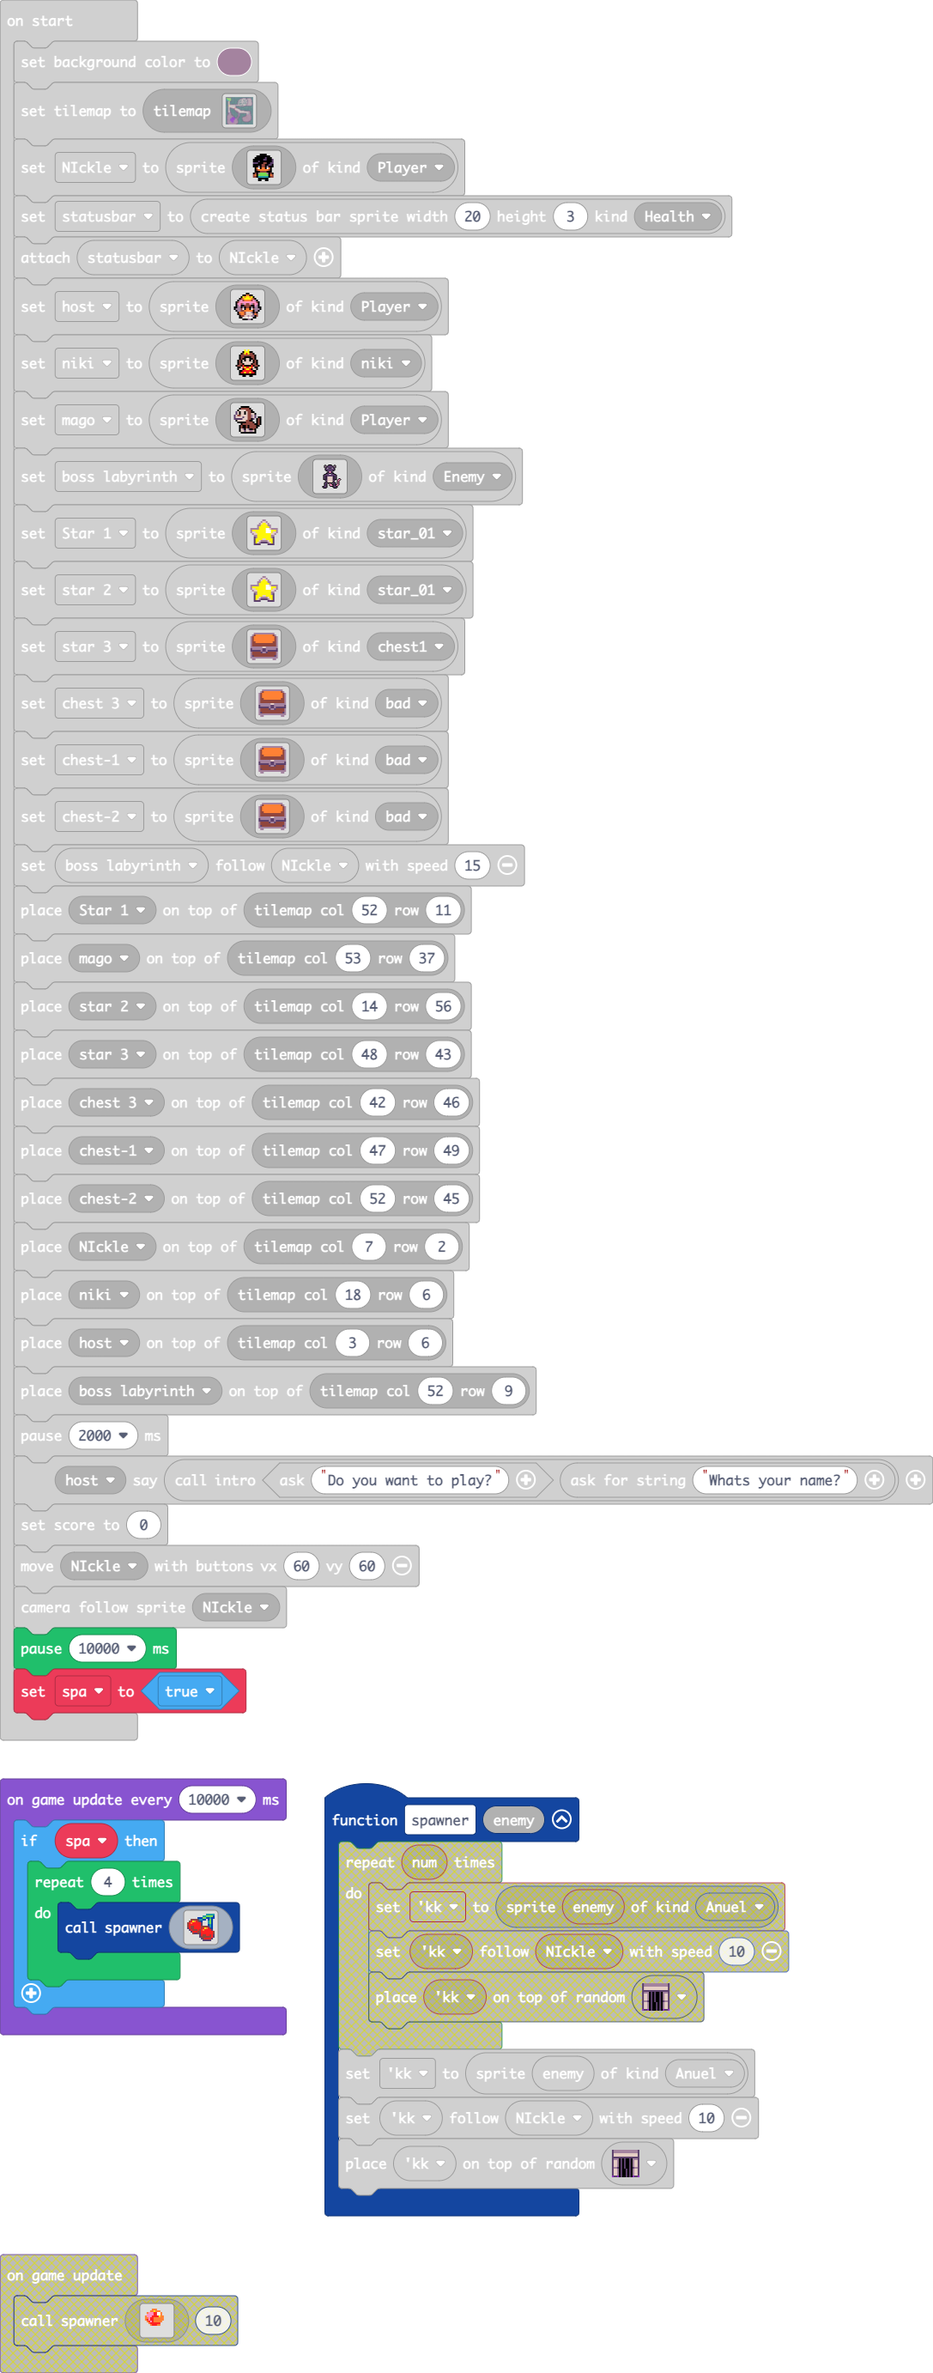
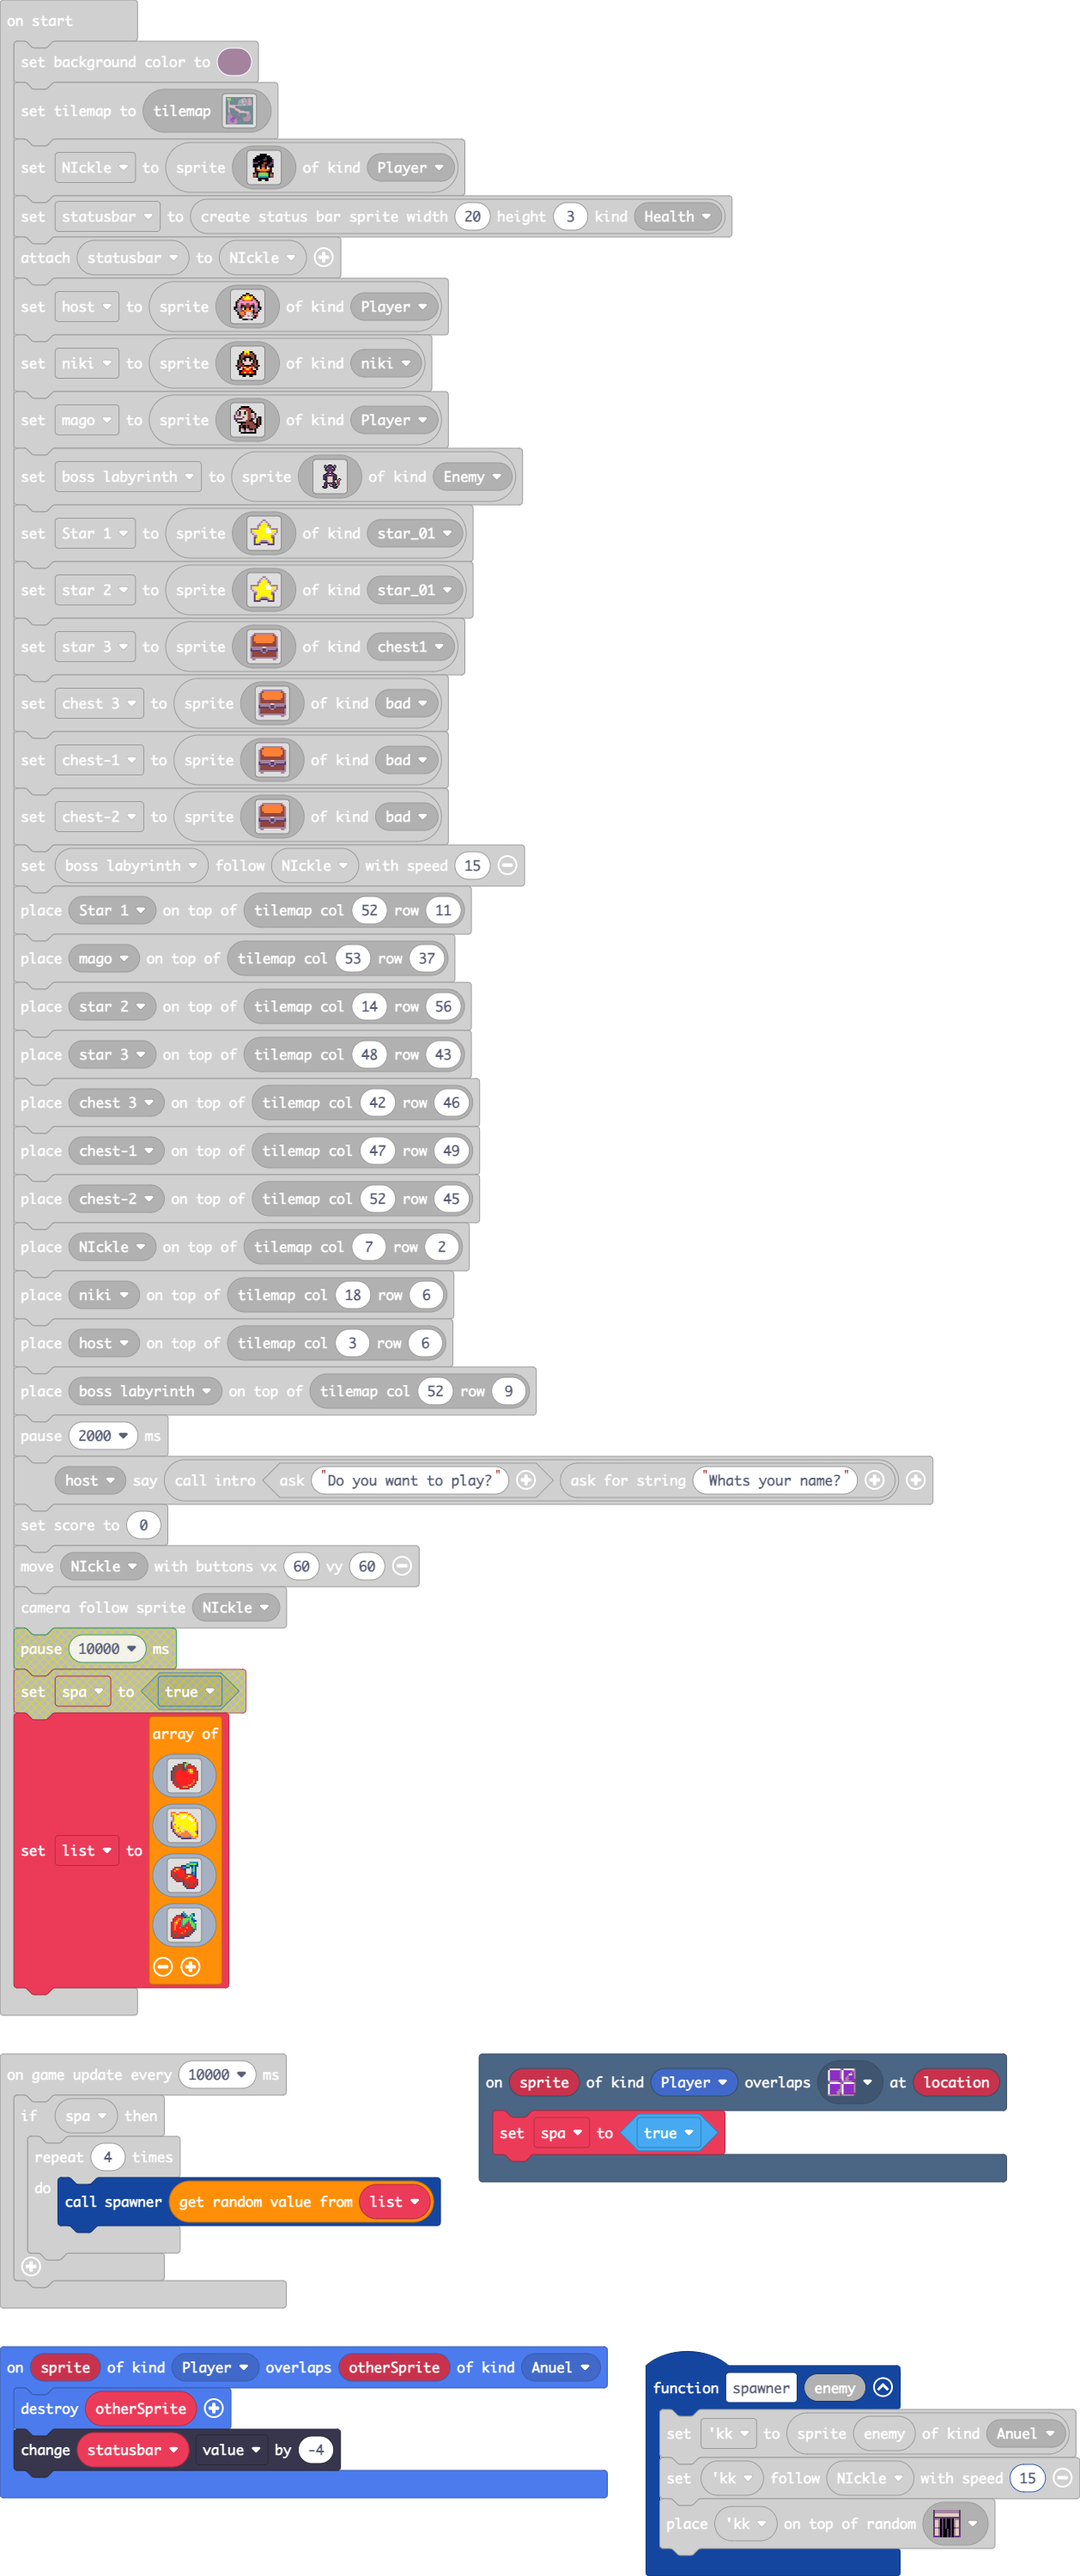
Update main.blocks, main.ts

diff --git a/main.ts b/main.ts
@@ -136,6 +136,9 @@ controller.left.onEvent(ControllerButtonEvent.Pressed, function () {
     true
     )
 })
+scene.onOverlapTile(SpriteKind.Player, assets.tile`tile3`, function (sprite, location) {
+    spa = true
+})
 sprites.onOverlap(SpriteKind.Player, SpriteKind.niki, function (sprite, otherSprite) {
     if (info.score() >= 3) {
         niki.sayText("Thank you for saving me!", 400, false)
@@ -248,6 +251,10 @@ controller.right.onEvent(ControllerButtonEvent.Pressed, function () {
 controller.up.onEvent(ControllerButtonEvent.Released, function () {
     animation.stopAnimation(animation.AnimationTypes.MovementAnimation, NIckle)
 })
+sprites.onOverlap(SpriteKind.Player, SpriteKind.Anuel, function (sprite, otherSprite) {
+    sprites.destroy(otherSprite)
+    statusbar.value += -4
+})
 sprites.onOverlap(SpriteKind.Player, SpriteKind.star_01, function (sprite, otherSprite) {
     NIckle.sayText("Got a star!", 600, true)
     info.changeScoreBy(1)
@@ -314,7 +321,7 @@ controller.down.onEvent(ControllerButtonEvent.Pressed, function () {
 })
 function spawner (enemy: Image) {
     kk = sprites.create(enemy, SpriteKind.Anuel)
-    kk.follow(NIckle, 10)
+    kk.follow(NIckle, 15)
     tiles.placeOnRandomTile(kk, sprites.dungeon.doorClosedNorth)
 }
 scene.onOverlapTile(SpriteKind.Player, sprites.dungeon.collectibleInsignia, function (sprite, location) {
@@ -326,6 +333,7 @@ sprites.onOverlap(SpriteKind.Player, SpriteKind.Enemy, function (sprite, otherSp
 let magohabla = false
 let kk: Sprite = null
 let sss: Sprite = null
+let spa = false
 let niki: Sprite = null
 let statusbar: StatusBarSprite = null
 let NIckle: Sprite = null
@@ -564,8 +572,80 @@ host.sayText(intro(game.ask("Do you want to play?"), game.askForString("Whats yo
 info.setScore(0)
 controller.moveSprite(NIckle, 60, 60)
 scene.cameraFollowSprite(NIckle)
-pause(10000)
-let spa = true
+let list = [
+img`
+    . . . . . . . e c 7 . . . . . . 
+    . . . . e e e c 7 7 e e . . . . 
+    . . c e e e e c 7 e 2 2 e e . . 
+    . c e e e e e c 6 e e 2 2 2 e . 
+    . c e e e 2 e c c 2 4 5 4 2 e . 
+    c e e e 2 2 2 2 2 2 4 5 5 2 2 e 
+    c e e 2 2 2 2 2 2 2 2 4 4 2 2 e 
+    c e e 2 2 2 2 2 2 2 2 2 2 2 2 e 
+    c e e 2 2 2 2 2 2 2 2 2 2 2 2 e 
+    c e e 2 2 2 2 2 2 2 2 2 2 2 2 e 
+    c e e 2 2 2 2 2 2 2 2 2 2 4 2 e 
+    . e e e 2 2 2 2 2 2 2 2 2 4 e . 
+    . 2 e e 2 2 2 2 2 2 2 2 4 2 e . 
+    . . 2 e e 2 2 2 2 2 4 4 2 e . . 
+    . . . 2 2 e e 4 4 4 2 e e . . . 
+    . . . . . 2 2 e e e e . . . . . 
+    `,
+img`
+    4 4 4 . . 4 4 4 4 4 . . . . . . 
+    4 5 5 4 4 5 5 5 5 5 4 4 . . . . 
+    b 4 5 5 1 5 1 1 1 5 5 5 4 . . . 
+    . b 5 5 5 5 1 1 5 5 1 1 5 4 . . 
+    . b d 5 5 5 5 5 5 5 5 1 1 5 4 . 
+    b 4 5 5 5 5 5 5 5 5 5 5 1 5 4 . 
+    c d 5 5 5 5 5 5 5 5 5 5 5 5 5 4 
+    c d 4 5 5 5 5 5 5 5 5 5 5 1 5 4 
+    c 4 5 5 5 d 5 5 5 5 5 5 5 5 5 4 
+    c 4 d 5 4 5 d 5 5 5 5 5 5 5 5 4 
+    . c 4 5 5 5 5 d d d 5 5 5 5 5 b 
+    . c 4 d 5 4 5 d 4 4 d 5 5 5 4 c 
+    . . c 4 4 d 4 4 4 4 4 d d 5 d c 
+    . . . c 4 4 4 4 4 4 4 4 5 5 5 4 
+    . . . . c c b 4 4 4 b b 4 5 4 4 
+    . . . . . . c c c c c c b b 4 . 
+    `,
+img`
+    . . . . . . . . . . . 6 6 6 6 6 
+    . . . . . . . . . 6 6 7 7 7 7 8 
+    . . . . . . 8 8 8 7 7 8 8 6 8 8 
+    . . e e e e c 6 6 8 8 . 8 7 8 . 
+    . e 2 5 4 2 e c 8 . . . 6 7 8 . 
+    e 2 4 2 2 2 2 2 c . . . 6 7 8 . 
+    e 2 2 2 2 2 2 2 c . . . 8 6 8 . 
+    e 2 e e 2 2 2 2 e e e e c 6 8 . 
+    c 2 e e 2 2 2 2 e 2 5 4 2 c 8 . 
+    . c 2 e e e 2 e 2 4 2 2 2 2 c . 
+    . . c 2 2 2 e e 2 2 2 2 2 2 2 e 
+    . . . e c c e c 2 2 2 2 2 2 2 e 
+    . . . . . . . c 2 e e 2 2 e 2 c 
+    . . . . . . . c e e e e e e 2 c 
+    . . . . . . . . c e 2 2 2 2 c . 
+    . . . . . . . . . c c c c c . . 
+    `,
+img`
+    . . . . . . . 6 . . . . . . . . 
+    . . . . . . 8 6 6 . . . 6 8 . . 
+    . . . e e e 8 8 6 6 . 6 7 8 . . 
+    . . e 2 2 2 2 e 8 6 6 7 6 . . . 
+    . e 2 2 4 4 2 7 7 7 7 7 8 6 . . 
+    . e 2 4 4 2 6 7 7 7 6 7 6 8 8 . 
+    e 2 4 5 2 2 6 7 7 6 2 7 7 6 . . 
+    e 2 4 4 2 2 6 7 6 2 2 6 7 7 6 . 
+    e 2 4 2 2 2 6 6 2 2 2 e 7 7 6 . 
+    e 2 4 2 2 4 2 2 2 4 2 2 e 7 6 . 
+    e 2 4 2 2 2 2 2 2 2 2 2 e c 6 . 
+    e 2 2 2 2 2 2 2 4 e 2 e e c . . 
+    e e 2 e 2 2 4 2 2 e e e c . . . 
+    e e e e 2 e 2 2 e e e c . . . . 
+    e e e 2 e e c e c c c . . . . . 
+    . c c c c c c c . . . . . . . . 
+    `
+]
 game.onUpdate(function () {
     if (magohabla) {
         mago.sayText("Theres 1 star in this room. Choose out of the 4 chests wisely...")
@@ -574,24 +654,7 @@ game.onUpdate(function () {
 game.onUpdateInterval(10000, function () {
     if (spa) {
         for (let index = 0; index < 4; index++) {
-            spawner(img`
-                . . . . . . . . . . . 6 6 6 6 6 
-                . . . . . . . . . 6 6 7 7 7 7 8 
-                . . . . . . 8 8 8 7 7 8 8 6 8 8 
-                . . e e e e c 6 6 8 8 . 8 7 8 . 
-                . e 2 5 4 2 e c 8 . . . 6 7 8 . 
-                e 2 4 2 2 2 2 2 c . . . 6 7 8 . 
-                e 2 2 2 2 2 2 2 c . . . 8 6 8 . 
-                e 2 e e 2 2 2 2 e e e e c 6 8 . 
-                c 2 e e 2 2 2 2 e 2 5 4 2 c 8 . 
-                . c 2 e e e 2 e 2 4 2 2 2 2 c . 
-                . . c 2 2 2 e e 2 2 2 2 2 2 2 e 
-                . . . e c c e c 2 2 2 2 2 2 2 e 
-                . . . . . . . c 2 e e 2 2 e 2 c 
-                . . . . . . . c e e e e e e 2 c 
-                . . . . . . . . c e 2 2 2 2 c . 
-                . . . . . . . . . c c c c c . . 
-                `)
+            spawner(list._pickRandom())
         }
     }
 })
